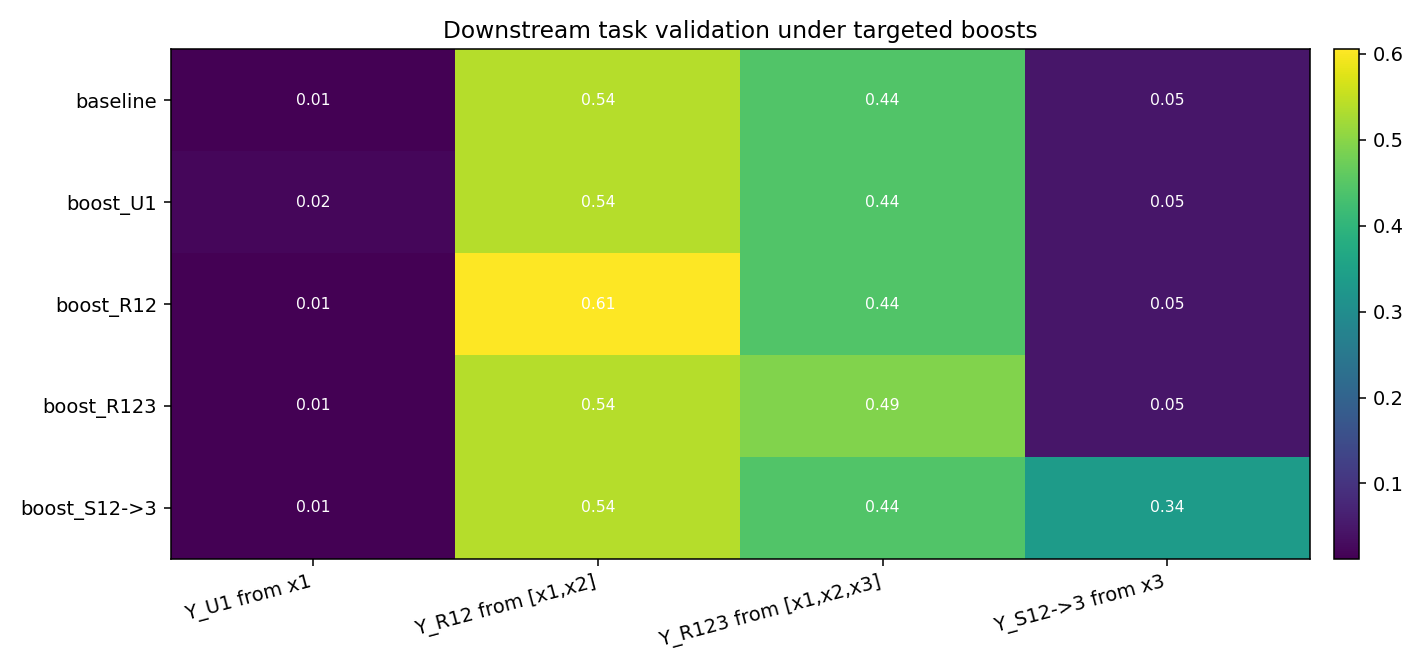
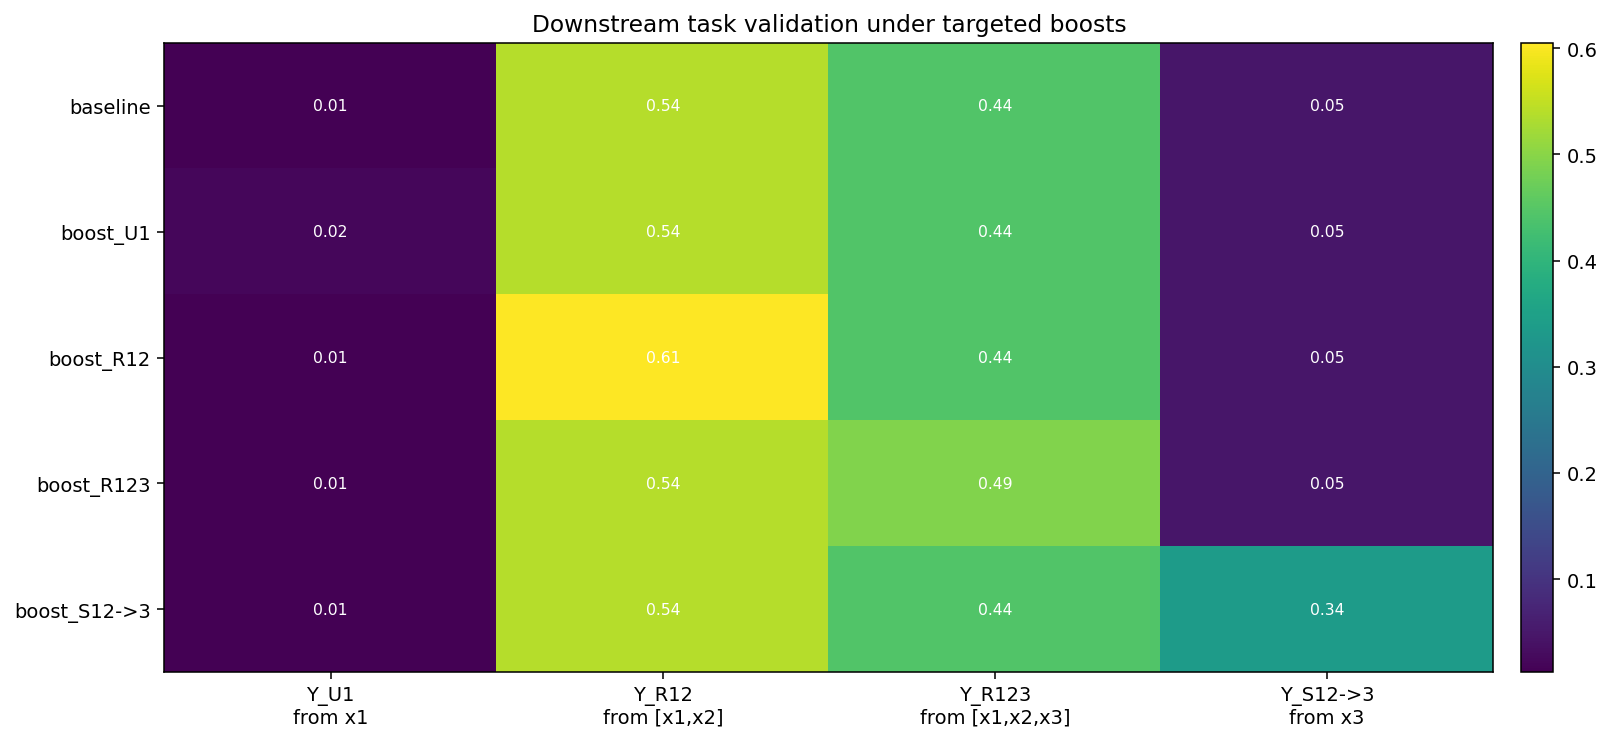
mib

diff --git a/tests/test_pid_sar3_dataset.py b/tests/test_pid_sar3_dataset.py
@@ -186,7 +186,7 @@ def _generate_fixed_pid(gen: PIDSar3DatasetGenerator, pid_id: int, n: int) -> Di
 
 def _savefig(path: Path) -> None:
     plt.tight_layout()
-    plt.savefig(path, dpi=140)
+    plt.savefig(path, dpi=140, bbox_inches="tight")
     plt.close()
 
 
@@ -643,13 +643,13 @@ def test_plot_cca_boosting_mechanisms_summary():
 
     # Heatmap summary for the four probe atoms across scenarios.
     metric_mat = np.asarray(metric_matrix, dtype=np.float32).reshape(len(scenarios), len(probe_pids))
-    fig, ax = plt.subplots(figsize=(9.0, 4.8))
+    fig, ax = plt.subplots(figsize=(9.8, 5.2))
     im = ax.imshow(metric_mat, aspect="auto", cmap="cividis")
     ax.set_xticks(range(len(probe_pids)))
-    ax.set_xticklabels([label for _, label in probe_pids])
+    ax.set_xticklabels(["U1", "R12", "R123", "S12->3"], rotation=0)
     ax.set_yticks(range(len(scenarios)))
     ax.set_yticklabels([label for label, _ in scenarios])
-    ax.set_title("Holdout CCA summary under targeted pid boosts (sigma=0.45, rho=0.5, hop=2)")
+    ax.set_title("Holdout CCA summary under targeted boosts\n(sigma=0.45, rho=0.5, hop=2)")
     for i in range(metric_mat.shape[0]):
         for j in range(metric_mat.shape[1]):
             ax.text(j, i, f"{metric_mat[i, j]:.2f}", ha="center", va="center", color="white", fontsize=8)
@@ -733,10 +733,16 @@ def test_plot_downstream_task_boosting_summary():
         for task, score in zip(task_names, vals):
             rows.append({"scenario": label, "task": task, "score": float(score)})
 
-    fig, ax = plt.subplots(figsize=(10.2, 4.8))
+    pretty_task_labels = [
+        "Y_U1\nfrom x1",
+        "Y_R12\nfrom [x1,x2]",
+        "Y_R123\nfrom [x1,x2,x3]",
+        "Y_S12->3\nfrom x3",
+    ]
+    fig, ax = plt.subplots(figsize=(11.6, 5.4))
     im = ax.imshow(metrics, aspect="auto", cmap="viridis")
     ax.set_xticks(range(len(task_names)))
-    ax.set_xticklabels(task_names, rotation=15, ha="right")
+    ax.set_xticklabels(pretty_task_labels, rotation=0, ha="center")
     ax.set_yticks(range(len(scenarios)))
     ax.set_yticklabels([s for s, _ in scenarios])
     ax.set_title("Downstream task validation under targeted boosts")
@@ -744,6 +750,7 @@ def test_plot_downstream_task_boosting_summary():
         for j in range(metrics.shape[1]):
             ax.text(j, i, f"{metrics[i, j]:.2f}", ha="center", va="center", color="white", fontsize=8)
     fig.colorbar(im, ax=ax, fraction=0.03, pad=0.02)
+    fig.subplots_adjust(bottom=0.18)
     _savefig(out_dir / "downstream_task_boosting_summary.png")
 
     csv_path = out_dir / "downstream_task_boosting_summary.csv"
@@ -814,7 +821,7 @@ def test_plot_synergy_task_gap_boosting_summary():
         vals_gap.append(gap)
         vals_x3.append(float(r2_x3))
 
-    fig, axes = plt.subplots(1, 2, figsize=(10.8, 4.4))
+    fig, axes = plt.subplots(1, 2, figsize=(11.6, 4.8))
     x = np.arange(len(scenarios))
     labels = [s for s, _ in scenarios]
 
@@ -823,14 +830,15 @@ def test_plot_synergy_task_gap_boosting_summary():
     axes[0].set_title("S12->3 synergy probe gap\nR²([x1,x2]->y) - max(R²(x1->y), R²(x2->y))")
     axes[0].set_ylabel("gap")
     axes[0].set_xticks(x)
-    axes[0].set_xticklabels(labels, rotation=20, ha="right")
+    axes[0].set_xticklabels(labels, rotation=28, ha="right")
     axes[0].grid(axis="y", alpha=0.25)
 
     axes[1].bar(x, vals_x3, color="#f58518", alpha=0.85)
     axes[1].set_title("S12->3 target-view decode (control)\nR²(x3 -> y_s12_3)")
     axes[1].set_ylabel("R²")
     axes[1].set_xticks(x)
-    axes[1].set_xticklabels(labels, rotation=20, ha="right")
+    axes[1].set_xticklabels(labels, rotation=28, ha="right")
+    fig.subplots_adjust(bottom=0.22)
     axes[1].grid(axis="y", alpha=0.25)
 
     _savefig(out_dir / "synergy_task_gap_boosting_summary.png")
@@ -942,7 +950,7 @@ def test_plot_single_atom_correctness_validation():
     # Plot as four compact panels (one per correctness set) to avoid mixing incomparable metrics.
     atom_order = ["U1", "R12", "R123", "S12->3"]
     atom_rows = {a: [r for r in rows if r["atom"] == a] for a in atom_order}
-    fig, axes = plt.subplots(2, 2, figsize=(13.2, 9.0))
+    fig, axes = plt.subplots(2, 2, figsize=(14.8, 10.6))
     axes = axes.ravel()
     palette = {
         "main": "#4c78a8",
@@ -953,10 +961,24 @@ def test_plot_single_atom_correctness_validation():
     }
     for ax, atom in zip(axes, atom_order):
         atom_metrics = atom_rows[atom]
-        labels = [m["metric"] for m in atom_metrics]
+        raw_labels = [m["metric"] for m in atom_metrics]
+        labels = []
+        for lbl in raw_labels:
+            lbl = (
+                lbl.replace("R2(", "R2(\n")
+                .replace(") control", ")\ncontrol")
+                .replace(") source single", ")\nsource single")
+                .replace(") source joint", ")\nsource joint")
+                .replace("joint gain over best single", "joint gain\nover best single")
+                .replace("source joint gain", "source joint\ngain")
+                .replace(" | [x1,x2,x3])", " |\n[x1,x2,x3])")
+                .replace(" | [x1,x2])", " |\n[x1,x2])")
+                .replace(" target decode", "\ntarget decode")
+            )
+            labels.append(lbl)
         vals = np.array([m["score"] for m in atom_metrics], dtype=np.float32)
         colors = []
-        for lbl in labels:
+        for lbl in raw_labels:
             if "control" in lbl:
                 colors.append(palette["control"])
             elif "joint gain" in lbl or "source joint gain" in lbl:
@@ -973,17 +995,18 @@ def test_plot_single_atom_correctness_validation():
         ax.axhline(0.0, color="black", linewidth=0.8, alpha=0.6)
         ax.set_title(f"{atom} correctness set (low noise)")
         ax.set_xticks(x)
-        ax.set_xticklabels(labels, rotation=18, ha="right", fontsize=8)
+        ax.set_xticklabels(labels, rotation=0, ha="center", fontsize=7.5)
         ax.grid(axis="y", alpha=0.25)
         for i, v in enumerate(vals):
-            ax.text(i, v + (0.015 if v >= 0 else -0.04), f"{v:.2f}", ha="center", va="bottom" if v >= 0 else "top", fontsize=8)
+            ax.text(i, v + (0.015 if v >= 0 else -0.04), f"{v:.2f}", ha="center", va="bottom" if v >= 0 else "top", fontsize=7.5)
 
         if atom in ("U1", "R12", "R123"):
             ax.set_ylim(min(-0.15, float(np.min(vals)) - 0.05), 1.05)
         else:
             ax.set_ylim(min(-0.25, float(np.min(vals)) - 0.05), max(1.05, float(np.max(vals)) + 0.08))
 
-    fig.suptitle("Single-atom correctness validation (low noise): atom-aligned tasks should be near-ceiling")
+    fig.suptitle("Single-atom correctness validation (low noise): atom-aligned tasks should be near-ceiling", y=0.995)
+    fig.subplots_adjust(hspace=0.50, wspace=0.22, bottom=0.12)
     _savefig(out_dir / "single_atom_correctness_validation.png")
 
     csv_path = out_dir / "single_atom_correctness_validation.csv"
@@ -1225,7 +1248,6 @@ if __name__ == "__main__":
     test_plot_atom_gain_controls_ur()
     test_plot_ur_compact_signature_grid_over_sigma()
     test_plot_ur_hyperparameter_sweeps_compact()
-    test_plot_cca_all_pairs_ur()
     test_plot_single_atom_correctness_validation()
     test_plot_cca_boosting_mechanisms_summary()
     test_plot_downstream_task_boosting_summary()

diff --git a/UR_DATASET_NOTES.md b/UR_DATASET_NOTES.md
@@ -115,26 +115,7 @@ This plot adds variability to the same `D(i,j)` story. It shows repeated-batch d
 
 This figure links the equations directly to `D`. Increasing `rho` in $r_i=\sqrt{\rho}\,r+\sqrt{1-\rho}\,\eta_i$ increases shared latent content and should increase `D(1,2)` for `R12`. The norm panel shows how `alpha` and `sigma` change raw scale in $x_k=\mathrm{signal}_k+\varepsilon_k$.
 
-### 3.3 CCA Redundancy Geometry (Complementary to `D`)
-
-![CCA all-pairs sigma=0.15](test_outputs/pid_sar3/cca_all_pairs_ur_sigma_0p15.png)
-
-![CCA all-pairs sigma=0.9](test_outputs/pid_sar3/cca_all_pairs_ur_sigma_0p9.png)
-
-These figures complement `D(i,j)` by visualizing held-out CCA1 scores for `U1`, `R12`, and `R123` across all view pairs. They are useful for geometric confirmation of redundancy structure: at low noise, `R12` is strongly elevated on pair `(1,2)` and `R123` is elevated across all pairs; at high noise, values shrink but the ordering remains visible.
-
-Table 1 summarizes held-out CCA1 correlations from the current figures. Exact values vary with seed; the qualitative ordering is the main signal.
-
-| Atom | Sigma | CCA(1,2) | CCA(1,3) | CCA(2,3) | Interpretation |
-| --- | ---: | ---: | ---: | ---: | --- |
-| `U1` | 0.15 | 0.082 | 0.014 | 0.199 | Mostly low cross-view shared structure; residual nonzero values can occur due to finite-sample effects and random projections. |
-| `R12` | 0.15 | 0.523 | 0.114 | 0.033 | Strongly elevated on the matching pair `(1,2)`, low on mismatched pairs. |
-| `R123` | 0.15 | 0.368 | 0.436 | 0.322 | Elevated across all three pairs, consistent with triple redundancy. |
-| `U1` | 0.90 | 0.051 | 0.047 | 0.052 | Near-noise-floor across pairs under high noise. |
-| `R12` | 0.90 | 0.126 | 0.140 | 0.025 | Weaker than low-noise but still structured; pair `(1,2)` remains informative. |
-| `R123` | 0.90 | 0.115 | 0.160 | 0.240 | Shared structure persists across pairs but is attenuated by noise. |
-
-### 3.4 Targeted-Boost Stress Tests (Metric-Atom Alignment Matters)
+### 3.3 Targeted-Boost Stress Tests (Metric-Atom Alignment Matters)
 
 These summaries are stress tests, not correctness checks. They test whether diagnostics move in the expected direction when one atom is selectively amplified via `pid_gain_overrides`, with nuisance settings fixed (`sigma = 0.45`, `rho = 0.5`, `hop = 2`).
 
@@ -174,7 +155,7 @@ This CCA boost summary is secondary. It is useful for redundancy boosts (`R12`, 
 | boost `R123` | 0.022 | 0.294 | 0.455 | 0.028 |
 | boost `S12->3` | 0.022 | 0.294 | 0.380 | 0.008 |
 
-### 3.5 Secondary / Optional Diagnostics
+### 3.4 Secondary / Optional Diagnostics
 
 The following tests are useful during development but are not required for the main validation argument in this note: `test_plot_pid_metadata_distributions()` (sampling sanity checks) and `test_plot_atom_gain_controls_ur()` (gain-effect intuition).
 ## 4. Code Tutorial (How the Dataset Is Implemented and Used)
@@ -256,7 +237,7 @@ np.savez_compressed("data/pid_sar3_ur_train.npz", **batch)
 
 ### 4.5 Where the Diagnostics Are Implemented
 
-The core diagnostics used in Section 3 are implemented in `tests/test_pid_sar3_dataset.py`: `test_plot_single_atom_correctness_validation()`, `test_plot_ur_compact_signature_grid_over_sigma()`, `test_plot_pid_dependence_distributions_boxplots()`, `test_plot_ur_hyperparameter_sweeps_compact()`, `test_plot_cca_all_pairs_ur()`, `test_plot_downstream_task_boosting_summary()`, `test_plot_synergy_task_gap_boosting_summary()`, and `test_plot_cca_boosting_mechanisms_summary()`. Two tests are useful but secondary for the main argument: `test_plot_pid_metadata_distributions()` and `test_plot_atom_gain_controls_ur()`.
+The core diagnostics used in Section 3 are implemented in `tests/test_pid_sar3_dataset.py`: `test_plot_single_atom_correctness_validation()`, `test_plot_ur_compact_signature_grid_over_sigma()`, `test_plot_pid_dependence_distributions_boxplots()`, `test_plot_ur_hyperparameter_sweeps_compact()`, `test_plot_downstream_task_boosting_summary()`, `test_plot_synergy_task_gap_boosting_summary()`, and `test_plot_cca_boosting_mechanisms_summary()`. Two tests are useful but secondary for the main argument: `test_plot_pid_metadata_distributions()` and `test_plot_atom_gain_controls_ur()`.
 
 ## 5. Commands to Reproduce the Dataset and Figures
 
@@ -269,7 +250,6 @@ from tests.test_pid_sar3_dataset import (
     test_plot_ur_compact_signature_grid_over_sigma,
     test_plot_pid_dependence_distributions_boxplots,
     test_plot_ur_hyperparameter_sweeps_compact,
-    test_plot_cca_all_pairs_ur,
     test_plot_downstream_task_boosting_summary,
     test_plot_synergy_task_gap_boosting_summary,
     test_plot_cca_boosting_mechanisms_summary,
@@ -279,7 +259,6 @@ test_plot_single_atom_correctness_validation()
 test_plot_ur_compact_signature_grid_over_sigma()
 test_plot_pid_dependence_distributions_boxplots()
 test_plot_ur_hyperparameter_sweeps_compact()
-test_plot_cca_all_pairs_ur()
 test_plot_downstream_task_boosting_summary()
 test_plot_synergy_task_gap_boosting_summary()
 test_plot_cca_boosting_mechanisms_summary()
@@ -287,7 +266,7 @@ print("Saved plots under test_outputs/pid_sar3")
 PY
 ```
 
-This command generates the main figures and CSV summaries referenced in Section 3 (single-atom correctness, `D(i,j)` U/R structure checks, CCA redundancy geometry, and targeted-boost stress tests).
+This command generates the main figures and CSV summaries referenced in Section 3 (single-atom correctness, `D(i,j)` U/R structure checks, and targeted-boost stress tests).
 
 Optional secondary diagnostics (sampling sanity and gain-intuition):
 
